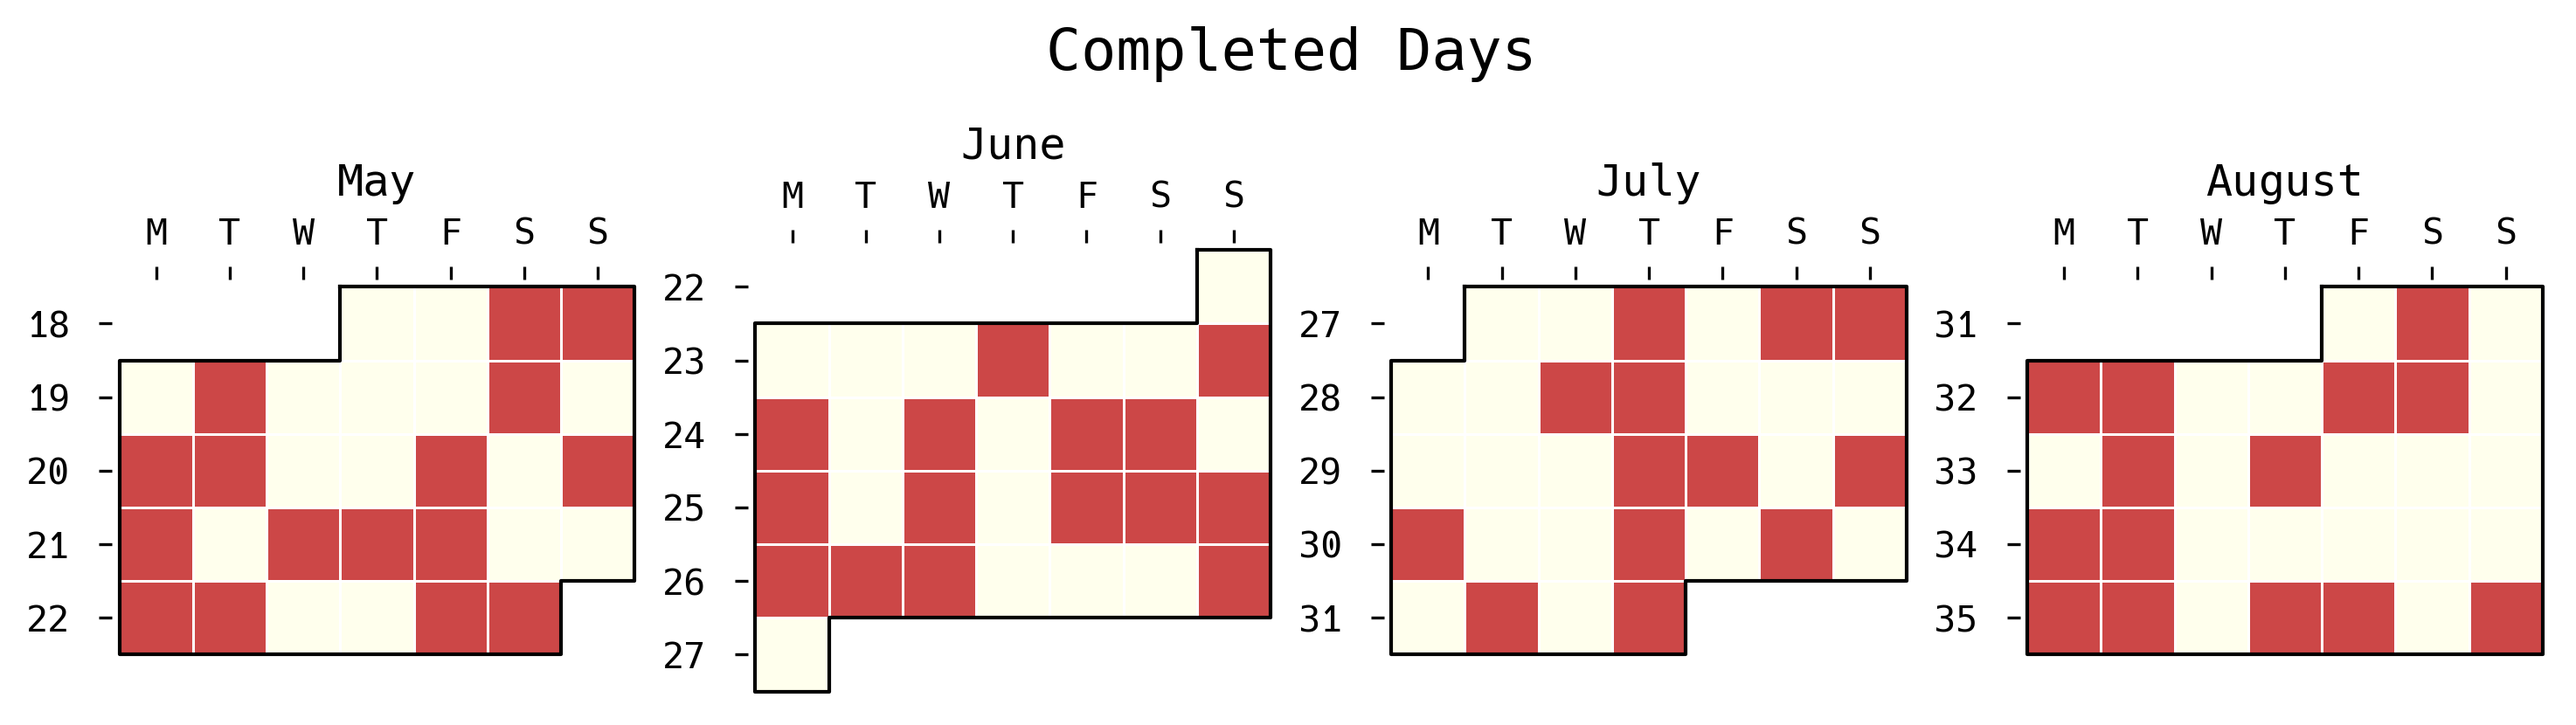
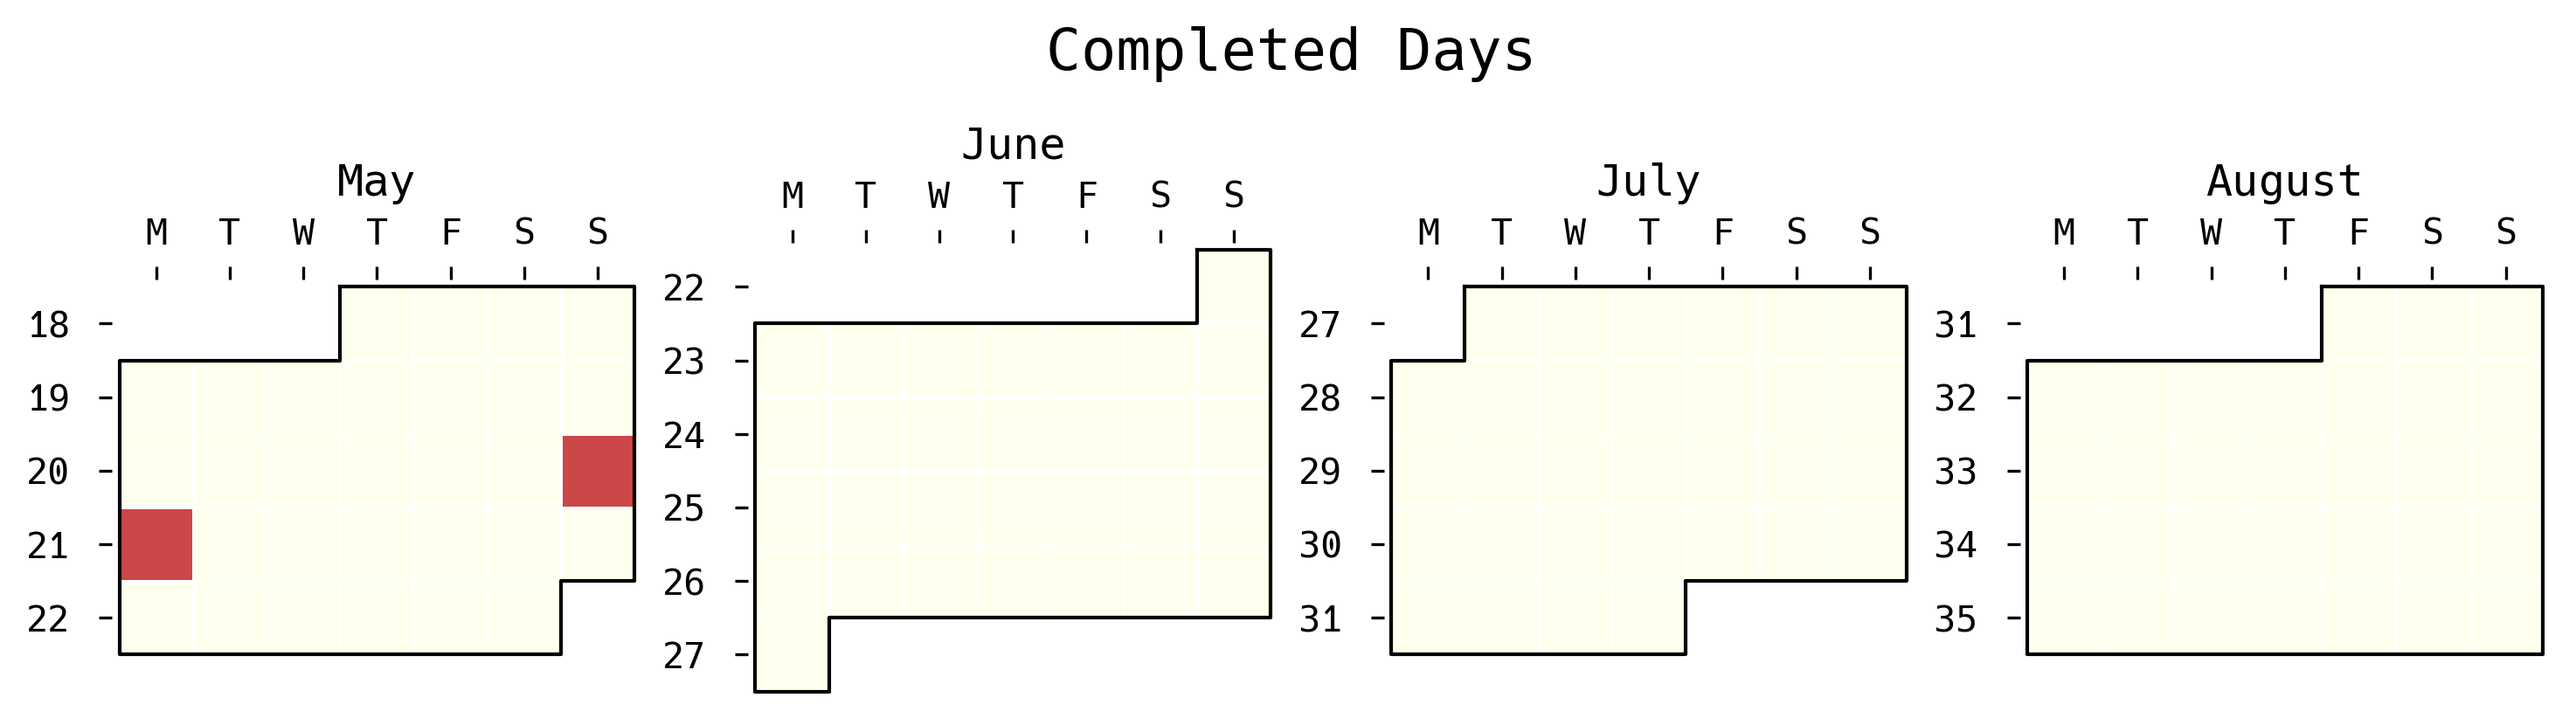
run git as subprocess and collect valid dates committed

diff --git a/update_status.py b/update_status.py
@@ -1,12 +1,32 @@
+import subprocess
+from datetime import datetime
 import numpy as np
 import matplotlib.pyplot as plt
 import matplotlib as mpl
 import july
 from july.utils import date_range
 
+# runs git as subprocess -- collects all the logged dates committed in dir 
+def get_commit_dates(path, since, until):
+    git_log_cmd = [
+        "git", "log",
+        "--since", since,
+        "--until", until,
+        "--pretty=format:%ad",
+        "--date=short",
+        "--", path
+    ]
+    
+    result = subprocess.run(git_log_cmd, capture_output=True, text=True)
+    dates = result.stdout.strip().split('\n')
+    return set(dates)
+
 mpl.rcParams['font.family'] = 'Hack Nerd Font Mono'
 dates = date_range("2025-05-01", "2025-8-31")
-data = np.random.randint(0, 2, len(dates))
+commit_dates = get_commit_dates("./questions/", "2025-05-01", "2025-08-31")
+
+# maps matches to 1 to graph
+data = np.array([1 if d.strftime("%Y-%m-%d") in commit_dates else 0 for d in dates])
 
 fig, ax = plt.subplots(nrows=1, ncols=4, figsize=(12, 3.5))
 
@@ -17,5 +37,5 @@ july.month_plot(dates, data, month=8, ax=ax[3])
 
 fig.suptitle("Completed Days", fontsize=16)
 plt.savefig("./auto_assets/plot.png", dpi=300, bbox_inches='tight')
-plt.show()
+
 
